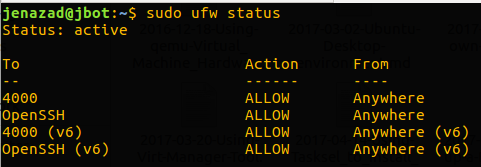
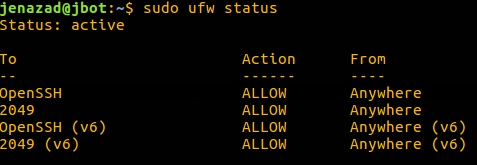
website

diff --git a/_posts/2017-05-01-Setting-up-a-Beowulf-type-Cluster-in-linux-machines.md b/_posts/2017-05-01-Setting-up-a-Beowulf-type-Cluster-in-linux-machines.md
@@ -35,10 +35,10 @@ And they need to be:
 
 # Setting up a Beowulf type CPU Cluster
 
-Our cluster is named JCluster.
+Our cluster is named `JCluster`.
 
 This guide describes how to build a simple cluster in Ubuntu.  
-We have 5 nodes running ubuntu server with hostnames: Jmaster, Jnode01, Jnode02, Jnode03 and Jnode04.
+We have 5 nodes running ubuntu server with hostnames: Jmaster, Jnode01, Jnode02, Jnode03, Jnode04 and Jnode05.
 
 ## Configure our static IP
 
@@ -59,7 +59,7 @@ We need a static IP for a local network in all of them (nodes and master).
 
 Then, in all computers (nodes and master) edit the file `/etc/hosts` like this way:
 
-* On master:
+* On `Jmaster`:
 
       127.0.0.1        localhost
       127.0.1.1        Jmaster
@@ -69,7 +69,7 @@ Then, in all computers (nodes and master) edit the file `/etc/hosts` like this w
       192.168.125.104  Jnode04
       192.168.125.105  Jnode05
 
-* On node03 for example:
+* On `Jnode03` for example:
 
       127.0.0.1        localhost
       127.0.1.1        Jnode03
@@ -83,7 +83,25 @@ Then, in all computers (nodes and master) edit the file `/etc/hosts` like this w
 
 If you want, you can change your hostname on file `/etc/hostname` and then reboot your system.
 
-## Managing users shared folder
+## Enabling Firewall
+
+First, we need to check the applications that require conections:
+
+    sudo ufw app list
+    sudo ufw disable
+
+Then, on master and nodes we should allows OpenSSH and NFS:
+
+    sudo ufw allow OpenSSH
+    sudo ufw allow nfs
+    sudo ufw enable
+    sudo ufw status
+
+![ufw_openssh][ufw_allow]
+
+for more info, press [here][ufw-url].
+
+## Managing users and groups
 
 In all machines, we should create an user to manage the system.  
 Best way to create users and groups, `Recommended`:
@@ -120,7 +138,7 @@ We can use lower/upper case in names, `Not recommended`:
 
 ## Making secure connections
 
-For this, we us OpenSSH.  
+For this, we use OpenSSH.  
 OpenSSh is a free suite of tools that help secure your network connections (similar to the SSH connectivity tools).
 
     sudo apt-get install openssh-server
@@ -249,7 +267,7 @@ In clients `Jnode0X`, create:
 
 Then, we mount folders:
 
-    sudo mount -t nfs Jmaster:/home/juser/forShare  /home/juser/forShare
+    sudo mount -v -t nfs Jmaster:/home/juser/forShare  /home/juser/forShare
 
 Verify:
 
@@ -273,20 +291,7 @@ From clients write:
 
     sudo umount /home/juser/forShare
 
-## Enabling Firewall
-
-First, we need to check the applications that require conections:
-
-    sudo ufw app list
-    sudo ufw disable
-
-Then, allows OpenSSH:
-
-    sudo ufw allow OpenSSH
-    sudo ufw enable
-    sudo ufw status
-
-![ufw_openssh][ufw_allow]
+![umounted][nfs_umounted]
 
 ## Managing external connections
 
@@ -372,9 +377,17 @@ And if you want to connect with a specific user, write:
 
 ![cssh][cssh_example]
 
+## Aplications
+
+* We can implement a [MPICH cluster][MPICH-url] for Distributed Computing using our `Jmaster` and `Jnodes0X`.
+
+
 [ssh_keygen]:      /assets/clusterComputing/ssh/ssh_keygen.png
 [ufw_allow]:       /assets/systemCommand/ufw_allows.png
 [fail2ban_ban]:    /assets/clusterComputing/fail2ban/banip.png
 [fail2ban_unban]:  /assets/clusterComputing/fail2ban/unbanip.png
 [cssh_example]:    /assets/clusterComputing/cssh/cssh_example.png
-[nfs_mounted]:     /assets/clusterComputing/NFS/nfs_mounted.png 
+[nfs_mounted]:     /assets/clusterComputing/NFS/nfs_mounted.png
+[nfs_umounted]:    /assets/clusterComputing/NFS/nfs_umounted.png
+[ufw-url]:         /blog/system-settings/2017-05-04/Setting-Up-a-Firewall-with-ufw-on-Linux
+[MPICH-url]:       /blog/cluster-computing/2017-05-02/Setting-Up-a-MPICH-Cluster

diff --git a/_posts/2017-05-04-Setting-Up-a-Firewall-with-ufw-on-Linux.md b/_posts/2017-05-04-Setting-Up-a-Firewall-with-ufw-on-Linux.md
@@ -1,0 +1,93 @@
+---
+layout: post
+title:  "Setting Up a Firewall using ufw on Linux."
+date:   2017-05-04 00:15:12 -0500
+categories: System-Settings
+---
+# UFW
+
+UFW, or Uncomplicated Firewall, is an interface to iptables that is geared towards simplifying the process of configuring a firewall.  
+If your distro don't have ufw, install it:
+
+    sudo apt-get install ufw
+
+Then, we have options like:  
+* Enable/Disable firewall:
+
+      sudo ufw enable
+      sudo ufw disable
+
+* Show status and detailed status:
+
+      sudo ufw status
+      sudo ufw status verbose
+
+* Show rules list numbered:
+
+      sudo ufw status numbered
+
+* Blocks/Allows all incoming LAN traffic from internet:
+
+      sudo ufw default deny incoming
+      sudo ufw default allow incoming
+
+* Blocks/Allows all outgoing LAN traffic to internet:
+
+      sudo ufw default deny outgoing
+      sudo ufw default allow outgoing
+
+* Blocks/Allows connections through the port 45 (like ssh):
+
+      sudo ufw deny 45
+      sudo ufw allow 45
+
+* Blocks/Allows connections from a specific ip:
+
+      sudo ufw deny from 52.35.156.45
+      sudo ufw allow from 52.35.156.45
+
+* Blocks/Allows connections from a specific ip through a specific port 45:
+
+      sudo ufw deny from 52.35.156.45 to any port 45
+      sudo ufw allow from 52.35.156.45 to any port 45
+
+* Blocks/Allows connections from a specific subnet (any using a ip in range 192.35.156.1 - 192.35.156.254):
+
+      sudo ufw deny from 192.35.156.0/24
+      sudo ufw allow from 192.35.156.0/24
+
+* Blocks/Allows connections through the port 45 from a specific subnet (any using a ip in range 192.35.156.1 - 192.35.156.254):
+
+      sudo ufw deny from 192.35.156.0/24 to any port 45
+      sudo ufw allow from 192.35.156.0/24 to any port 45
+
+* Blocks/Allows connections through the port 53 on TCP/UDP:
+
+      sudo ufw deny 53/udp
+      sudo ufw allow 53/udp
+      sudo ufw deny 53/tcp
+      sudo ufw allow 53/tcp
+
+* Blocks/Allow a port ranges on tcp/udp:
+
+      sudo ufw allow 6000:6007/tcp
+      sudo ufw allow 6000:6007/udp
+
+* Blocks/Allows Connections to a Specific Network Interface (e.g. eth0:
+
+      sudo ufw deny in on eth0 to any port 15
+      sudo ufw allow in on eth0 to any port 15
+
+* Delete a Rule by number(for example, the 2th rule on the list):
+
+      sudo ufw delete 2
+
+* Delete rule (delete rule http and 2044):
+
+      sudo ufw delete allow http
+      sudo ufw delete allow 2044
+
+* Reset (by default) configuration:
+
+      sudo ufw reset
+

diff --git a/_posts/2017-05-02-Setting-Up-a-MPICH-Cluster.md b/_posts/2017-05-02-Setting-Up-a-MPICH-Cluster.md
@@ -59,5 +59,5 @@ On `/home/juser/forShare`, we must shared mpi files.
 
 ![excution][mpi_exe]
 
-[Jcluster_link]:   /blog/cluster-computing/2017/05/01/Setting-up-a-Beowulf-type-Cluster-in-linux-machines
+[Jcluster_link]:   /blog/cluster-computing/2017-05-01/Setting-up-a-Beowulf-type-Cluster-in-linux-machines
 [mpi_exe]:         /assets/clusterComputing/MPI/mpi_exe.png
